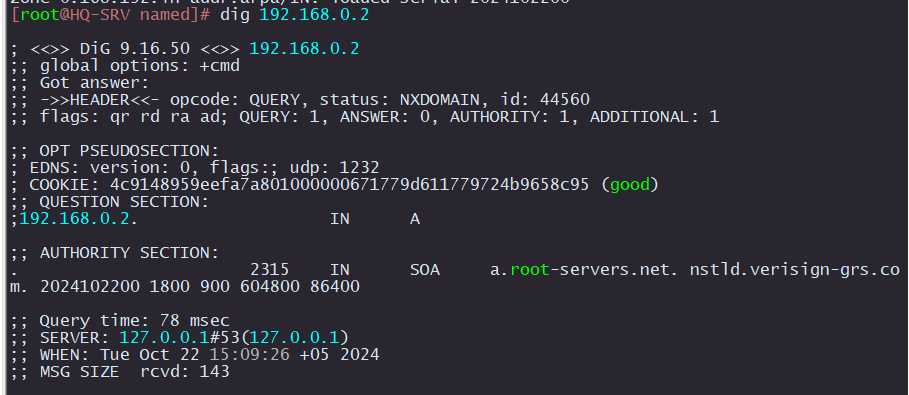
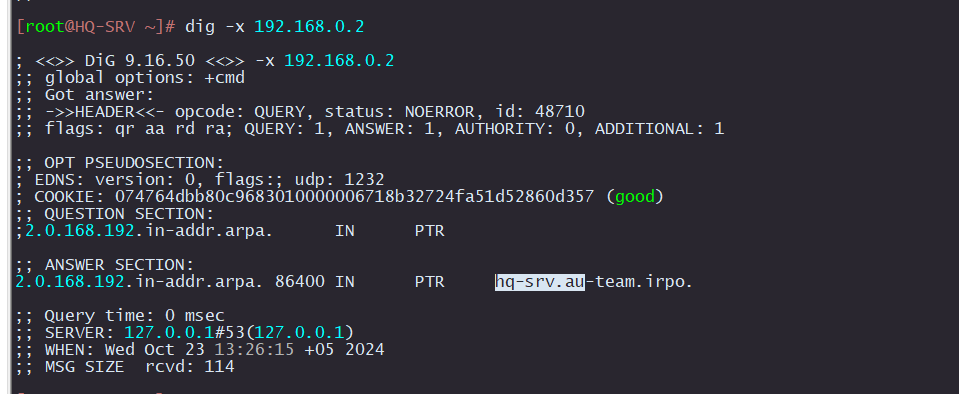
fix DNS

diff --git a/create_users/README.md b/create_users/README.md
@@ -1,0 +1,16 @@
+# Создание локальных учетных записей
+
+## HQ-RTR и BR-RTR
+
+```
+useradd -m -u 1010 sshuser
+passwd sshuser
+```
+
+```
+nano /etc/sudoers.d/sshuser
+```
+
+```
+sshuser ALL=(ALL) NOPASSWD:ALL
+```

diff --git a/dns/README.md b/dns/README.md
@@ -230,7 +230,7 @@ systemctl restart bind
 Проверяем
 
 ```
-dig 192.168.0.2
+dig -x 192.168.0.2
 ```
 
 <img src="13.png" width='600'>
